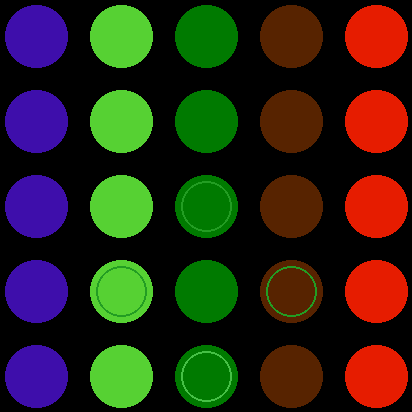
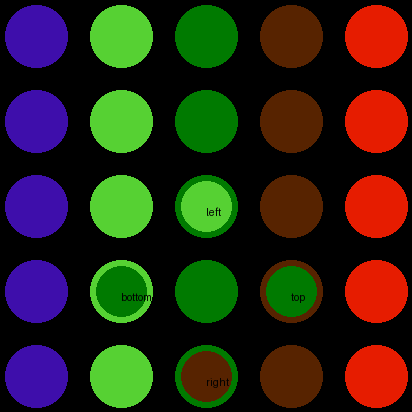
properly assigns placement and 'rotates'

diff --git a/rotate_01.py b/rotate_01.py
@@ -174,6 +174,52 @@ class base_positions:
         self.coord_dict = pos_dict
         pass
 
+    def align_children(self, selected_coord=None): # adding this so I can get the children in the correct 0,1,2,3 order to rotate properly.
+        # children = self.children_dict[coord]
+        self.ordered_children = {}
+        for point, children in self.children_dict.items():
+            point_x, point_y = point
+            if selected_coord and point != selected_coord:
+                continue
+            print(f"POINT: {point}")
+            self.ordered_children[point] = {}
+            for i, child in enumerate(children):
+                x, y = child
+                if x == point_x and y == point_x:
+                    self.ordered_children[point]["top"] = child
+                    print(f"Child is top: {child}")
+                elif x == point_y and y  == point_y:
+                    self.ordered_children[point]["right"] = child
+                    print(f"Child is right: {child}")
+
+                elif x == point_x and y > point_y:
+                    self.ordered_children[point]["bottom"] = child
+                    print(f"Child is bottom: {child}")
+                elif x < point_x and y == point_y:
+                    self.ordered_children[point]["left"] = child
+                    print(f"Child is left: {child}")
+                else:
+                    print(f"Coord is not top/bottom/left/right of {point}: {child}")
+
+                """if i == 0:
+                    self.ordered_children[point]["top"] = child
+                    print(f"Child is top: {child}")
+
+                    top_row, centre_col = child
+                elif x > top_row and y == centre_col:
+                    self.ordered_children[point]["bottom"] = child
+                    print(f"Child is bottom: {child}")
+                elif x > top_row and y > centre_col:
+                    self.ordered_children[point]["right"] = child
+                    print(f"Child is right: {child}")
+                elif x > top_row and y < centre_col:
+                    self.ordered_children[point]["left"] = child
+                    print(f"Child is left: {child}")
+                else:
+                    print(f"Coord is not top/bottom/left/right of {point}: {child}")"""
+
+            print(f"self.ordered_children: {self.ordered_children}")
+
     def add_dots_at_children(self, coord):
         children = self.children_dict[coord]
         d_a_c = "dots_at_children.png"
@@ -185,22 +231,115 @@ class base_positions:
 
             x_main, _ = coord
             pixel_value = pixel_dict[coord]
-
-            for child_coords in children:
-                x, _ = child_coords
+            child_colours = {}
+            for i, child_coords in enumerate(children):
+                child_col = pixel_dict[child_coords]
+                child_colours[i] = child_col
+            print(f"Child colours: {child_colours}")
+            print(f"CHILDREN: {children}")
+            for i, child_coords in enumerate(children):
+                print(f"i in child coords: {i}")
+                if i+1 == len(child_colours):
+                    child_col = child_colours[0]
+                else:
+                    child_col = child_colours[i+1]
+                print(f"Child col: {child_col}")
+                """x, _ = child_coords
                 if x == x_main:
                     a, b, c = pixel_value
-                    pixel_value = tuple((a+35, b+35, c+35))
+                    pixel_value = tuple((a+35, b+35, c+35))"""
                 draw = ImageDraw.Draw(im)
                 #draw.circle(child_coords, radius=radius, fill=pixel_value, outline=(1,1,1))
-                draw.circle(child_coords, radius=radius, outline=pixel_value, width=2)
-
+                draw.circle(child_coords, radius=radius, fill=child_col, width=2)
+                draw.text(xy=child_coords, text=str(i), fill="#000000")
+                """Currently this is wrong, because the 'children' are
+                   0
+                1     2
+                   3
+                which makes perfect sense but I'm thinking of it as
+                   0
+                3     1
+                   2
+                Okay.
+                """
             # write to stdout
             #im.save("mark_children.png", "PNG")
             im.save(d_a_c, "PNG")
 
+    def get_positioning(self, coord):# testing
+
+        children = self.ordered_children[coord]
+        unordered_children = self.children_dict[coord]
+        d_a_c = "dots_at_children.png"
+
+        make_starting_image(d_a_c)
+
+        with Image.open(d_a_c) as im:
+            radius = 25
+
+            x_main, _ = coord
+            pixel_value = pixel_dict[coord]
+
+            print(f"CHILDREN: {children}")
+            draw = ImageDraw.Draw(im)
+            draw.text(xy=coord, text=str(f"CENTER\n{coord}"), fill="#FFFFFF")
+
+            def draw_ordered(draw, children):
+                for position, child_coords in children.items():
+                    child_col = pixel_dict[child_coords]
+                    print(f"position in child coords: {position}\n")
+                    print(f"coords: {child_coords} // Child col: {child_col}")
+
+                    #draw.circle(child_coords, radius=radius, fill=pixel_value, outline=(1,1,1))
+                    draw.circle(child_coords, radius=radius, fill=child_col, width=2)
+                    draw.text(xy=child_coords, text=str(position), fill="#000000")
+
+            def draw_coords(draw, unordered_children):
+                for child in unordered_children:
+                    draw.text(xy=child, text=str(f"{child}"), fill="#FFFFFF")
+
+            draw_coords(draw, unordered_children)
+            draw_ordered(draw, children)
+            # write to stdout
+            #im.save("mark_children.png", "PNG")
+            im.save(d_a_c, "PNG")
+
+    def add_dots_at_correct_children(self, coord):
+
+        children = self.ordered_children[coord]
+        d_a_c = "dots_at_children.png"
+
+        rotated_children = {}
+        if len(children) == 4:
+            rotated_children["top"] = (children["right"], pixel_dict[children["top"]])
+            rotated_children["right"] = (children["bottom"], pixel_dict[children["right"]])
+            rotated_children["bottom"] = (children["left"], pixel_dict[children["bottom"]])
+            rotated_children["left"] = (children["top"], pixel_dict[children["left"]])
+
+        make_starting_image(d_a_c)
+
+        with Image.open(d_a_c) as im:
+            radius = 25
+
+            for position, child_coords in rotated_children.items():
+                child_coords, child_colour = child_coords
+                #pixel_value = pixel_dict[child_coords]
+
+                draw = ImageDraw.Draw(im)
+                #draw.circle(child_coords, radius=radius, fill=pixel_value, outline=(1,1,1))
+                draw.circle(child_coords, radius=radius, fill=child_colour, width=2)
+                draw.text(xy=child_coords, text=str(position), fill="#000000")
+
+            # write to stdout
+            #im.save("mark_children.png", "PNG")
+            im.save(d_a_c, "PNG")
 base_pos = base_positions(child_dict)
 
 base_pos.get_row_and_column()
 selected_coord = (base_pos.coord_dict["rows"][2], base_pos.coord_dict["columns"][3])
-base_pos.add_dots_at_children(selected_coord) # oh shit, this worked too. Nice. Now how to rotate them...
+base_pos.align_children(selected_coord)
+#base_pos.add_dots_at_children(selected_coord) # oh shit, this worked too. Nice. Now how to rotate them...
+base_pos.get_positioning(selected_coord)
+base_pos.add_dots_at_correct_children(selected_coord)
+"""
+So maybe the best way is to define each point's children's points, instead of looking it up each time? then just do an offset of the pixel value assignment?"""